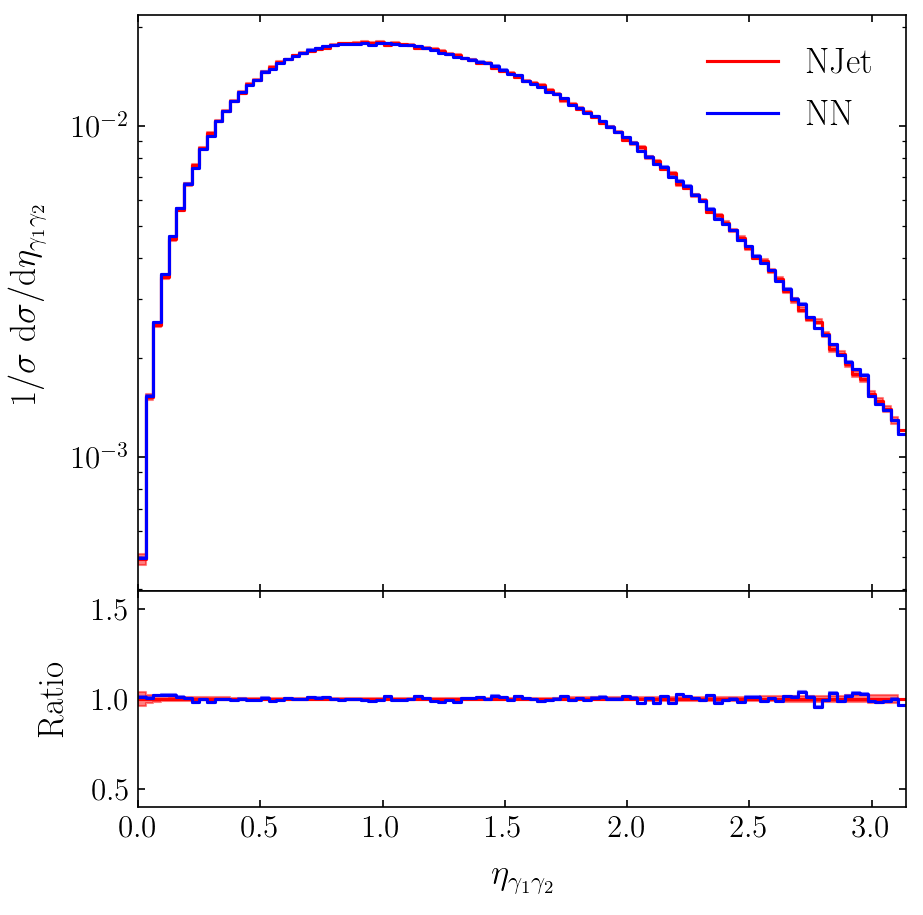
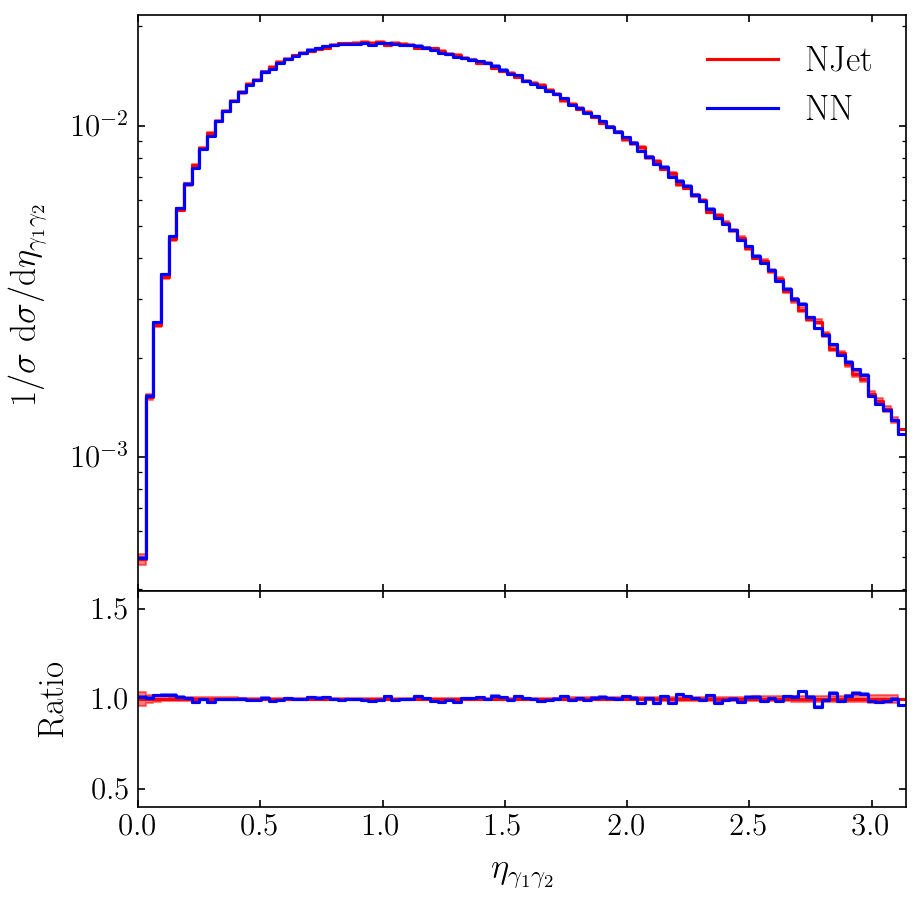
updating 6point plots

diff --git a/plotting/rivet_plotter.py b/plotting/rivet_plotter.py
@@ -121,7 +121,7 @@ class RivetPlotter:
 
         plt.clf()
 
-        fig = plt.figure(1)
+        fig = plt.figure(1, figsize=(5, 7))
 
         plt.rc("text", usetex=True)
         plt.rc("font", family="serif")
